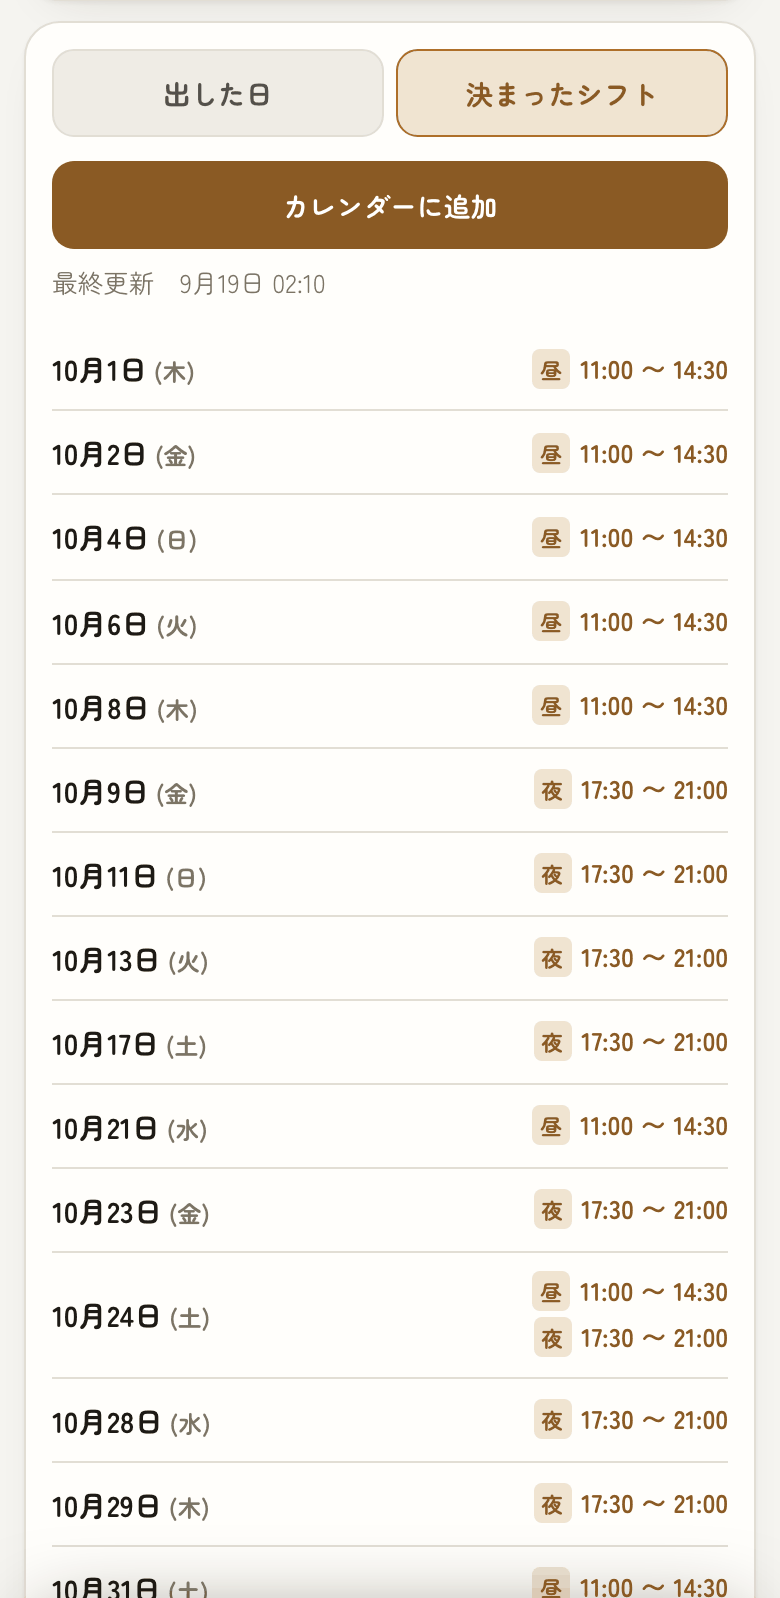
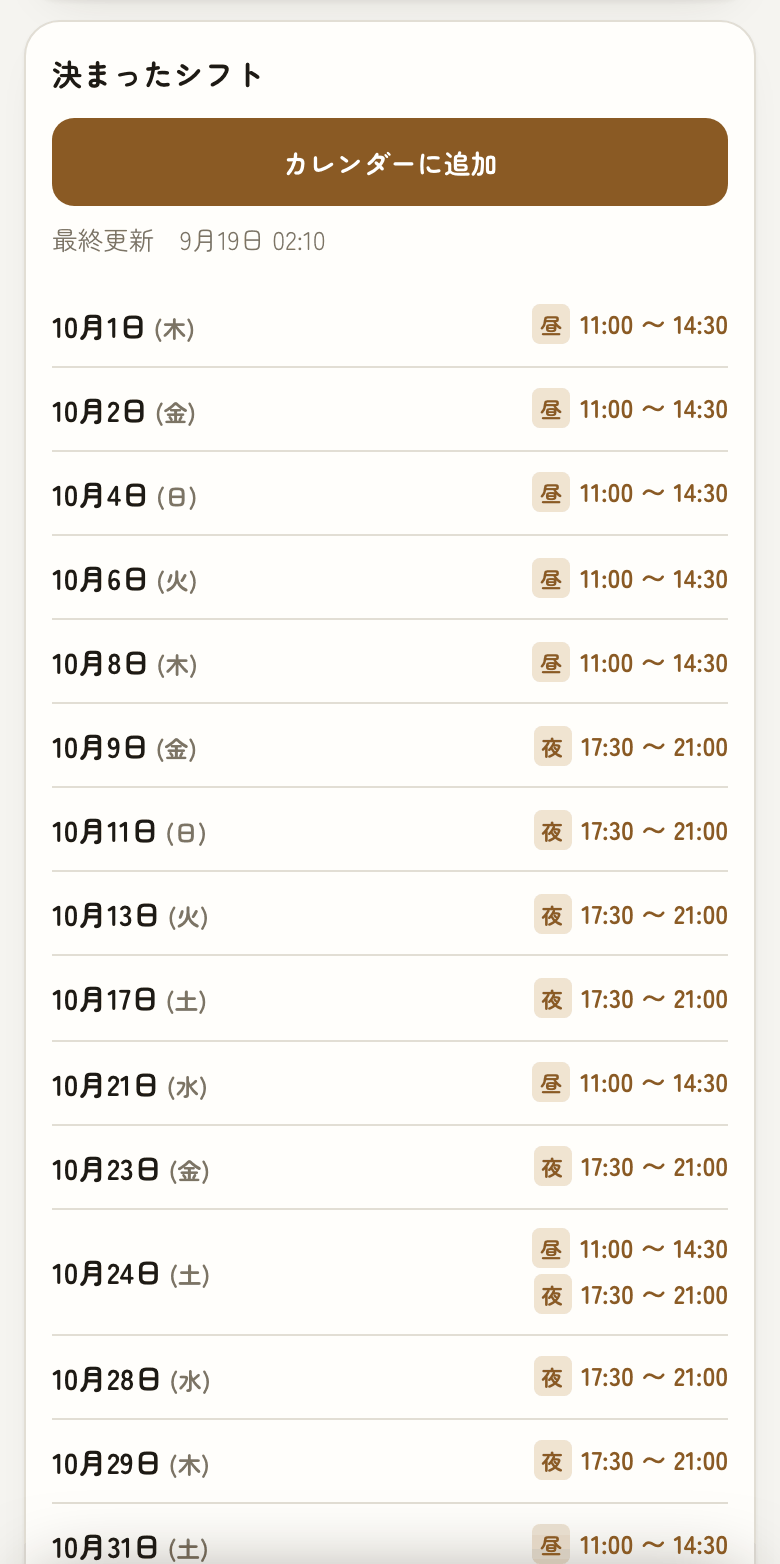
せんや：決まったシフトをカレンダーで見やすく。タブをカレンダーのすぐ上へ移し、マスに開始時刻の札を出す（2枠は縦に2段、3枠以上は「時刻＋残りの数」）。説明書の文と画像3枚も更新
Claude-Session: https://claude.ai/code/session_01YAqp5TCHuwZkG6s2foB56x

diff --git a/tsumiki-senya.html b/tsumiki-senya.html
@@ -130,6 +130,8 @@
      （初めて1日を出した瞬間に39px下がっていた）。2行ぶんの高さを先に取っておく。 */
   .state{margin-top:11px; display:flex; gap:8px; flex-wrap:wrap;
     align-content:flex-start; min-height:70px;}
+  /* タブが続く月は高さの確保をやめる（タブとの間が空くため） */
+  .state:has(+ .tabs:not([hidden])){min-height:0;}
   .pill{font-size:.76rem; font-weight:700; padding:5px 11px; border-radius:999px;
     background:var(--surface-2); color:var(--ink-mid); border:1px solid var(--line);}
   .pill.open{background:var(--good-wash); color:var(--good); border-color:transparent;}
@@ -303,6 +305,9 @@
   .cell .k.o{background:var(--accent-fill); color:var(--on-accent);}
   .cell .k.t{background:transparent; color:var(--accent-2); box-shadow:0 0 0 1px var(--accent) inset;}
   .cell .k.a{background:var(--good); color:var(--on-accent);}
+  /* 決まったシフトは開始時刻を出す。字が長いので縦に積む */
+  .cell .mk.col{flex-direction:column; align-items:center; gap:1px; margin-top:2px;}
+  .cell .mk.col .k{font-size:.6rem; padding:1px 3px; letter-spacing:0; font-variant-numeric:tabular-nums;}
   .cell.req{box-shadow:0 0 0 2px var(--warn) inset;}
   /* 足りない枠がある日（みんなの ○ がほしい人数に届いていない）。2026-09-28 */
   .cell.lack::after{content:""; position:absolute; top:4px; right:4px; width:6px; height:6px;
@@ -352,7 +357,7 @@
     font-size:.78rem; font-weight:700; cursor:pointer;}
 
   /* 一覧のタブ */
-  .tabs{display:flex; gap:6px; margin-bottom:12px;}
+  .tabs{display:flex; gap:6px; margin-top:12px;}
   .tabs button{flex:1 1 0; min-height:var(--tap); border:1px solid var(--line); background:var(--surface-2);
     color:var(--ink-mid); border-radius:11px; font-family:inherit; font-size:.86rem; font-weight:700; cursor:pointer;}
   .tabs button.on{background:var(--accent-wash); border-color:var(--accent); color:var(--accent-2);}
@@ -523,6 +528,10 @@
       <button class="navbtn" id="mNext" aria-label="次の月">›</button>
     </div>
     <div class="state" id="stateRow"></div>
+    <div class="tabs" id="tabs" hidden>
+      <button data-t="kibo" class="on">出した日</button>
+      <button data-t="kakutei">決まったシフト</button>
+    </div>
 
     <div class="wd">
       <div class="s0">日</div><div>月</div><div>火</div><div>水</div><div>木</div><div>金</div><div class="s6">土</div>
@@ -534,10 +543,6 @@
   </section>
 
   <section class="card" id="listCard">
-    <div class="tabs" id="tabs" hidden>
-      <button data-t="kibo" class="on">出した日</button>
-      <button data-t="kakutei">決まったシフト</button>
-    </div>
     <div style="font-weight:700; font-size:.95rem; margin-bottom:10px" id="listTitle">出した日</div>
     <div id="outRow"></div>
     <div id="listBox"></div>
@@ -976,12 +981,15 @@ function render(){
     if(has){
       const on=(me.slots||[]).filter(s=>got[s.k]);
       const MK_MAX=2;   /* マスの高さは決まっている。3つ出すと3行になって下が切れる（320pxで実測） */
-      let mk=on.slice(0,MK_MAX).map(s=>{
-        const cls=showAssign?'a':(got[s.k].mark==='t'?'t':'o');
+      /* 決まったシフトは縦に積むので2段まで。3つ以上の日は「時刻＋残りの数」にする */
+      const shown=showAssign&&on.length>MK_MAX?1:MK_MAX;
+      let mk=on.slice(0,shown).map(s=>{
+        if(showAssign) return '<span class="k a">'+(got[s.k].from==null?esc(String(s.label).slice(0,3)):m2hm(got[s.k].from))+'</span>';
+        const cls=got[s.k].mark==='t'?'t':'o';
         return '<span class="k '+cls+'">'+esc(String(s.label).slice(0,3))+'</span>';
       }).join('');
-      if(on.length>MK_MAX) mk+='<span class="k more">+'+(on.length-MK_MAX)+'</span>';
-      inner+='<div class="mk">'+mk+'</div>';
+      if(on.length>shown) mk+='<span class="k more">+'+(on.length-shown)+'</span>';
+      inner+='<div class="mk'+(showAssign?' col':'')+'">'+mk+'</div>';
     }else if(closed.has(w)){ inner+='<div class="restmark">休</div>'; }
     e.innerHTML=inner;
     e.addEventListener('click',()=>openSheet(key));
@@ -1025,7 +1033,8 @@ function renderList(){
   tabs.hidden=!cur.published;
   [...tabs.children].forEach(b=>b.classList.toggle('on', b.dataset.t===tab));
   const showAssign=cur.published && tab==='kakutei';
-  document.getElementById('listTitle').hidden=!tabs.hidden;
+  // タブはカレンダーの上にある。こちらの一覧は、いま何の一覧かを見出しで言う
+  document.getElementById('listTitle').textContent=showAssign?'決まったシフト':'出した日';
 
   // 決まったシフトは「持ち出せて」はじめて役に立つ（手でカレンダーに写させない）
   const or2=document.getElementById('outRow'); or2.innerHTML='';

diff --git a/tsumiki-senya-tsukaikata.html b/tsumiki-senya-tsukaikata.html
@@ -542,12 +542,12 @@
     <article class="item" id="i18">
       <div class="figs"><figure class="shot"><img src="senya-shots/s-kakutei.png" alt="決まったシフトのタブ" loading="lazy" decoding="async" width="780" height="1800"><figcaption>「決まったシフト」に切り替えたところ</figcaption></figure></div>
       <div class="txt"><h3><span class="n">18</span>決まったシフトを見る<span class="who-tag w">スタッフ</span></h3>
-      <p>店長がシフトを組んで知らせると、<kbd>決まったシフト</kbd> のタブが出ます。<strong>そこがあなたの確定した出勤日</strong>です。カレンダーの札も緑に変わります。</p>
+      <p>店長がシフトを組んで知らせると、<kbd>決まったシフト</kbd> のタブが出ます。<strong>そこがあなたの確定した出勤日</strong>です。タブはカレンダーのすぐ上にあり、切り替えると、カレンダーの緑の札に始まる時刻が出ます。</p>
       <details class="more"><summary>くわしく</summary><div class="mb"><p class="fine">出す前の「希望」と、決まったあとの「シフト」は別ものです。タブで切り替えて見比べられます。知らせが出るまではタブ自体が出ません。<br>知らせたあとは、その下に<strong>「みんなのシフト」</strong>も出ます。日ごとに誰が何時から入るかの表と、ひとりずつの合計（出る日と時間）です。自分のぶんは色が付きます。</p></div></details></div>
     </article>
 
     <article class="item" id="i19">
-      <div class="figs"><figure class="shot"><img src="senya-shots/s-ics.png" alt="カレンダーに追加ボタン" loading="lazy" decoding="async" width="780" height="1598"><figcaption>押すと1か月ぶんがまとめて入る</figcaption></figure></div>
+      <div class="figs"><figure class="shot"><img src="senya-shots/s-ics.png" alt="カレンダーに追加ボタン" loading="lazy" decoding="async" width="780" height="1564"><figcaption>押すと1か月ぶんがまとめて入る</figcaption></figure></div>
       <div class="txt"><h3><span class="n">19</span>決まったシフトを、自分のカレンダーに入れる<span class="who-tag w">スタッフ</span></h3>
       <p><kbd>カレンダーに追加</kbd> を押すと、<strong>1か月ぶんの出勤がまとめてカレンダーに入ります</strong>。ひとつずつ手で書き写す必要はありません。</p>
       <details class="more"><summary>くわしく</summary><div class="mb"><p class="fine">押すとカレンダーのアプリが開き、「追加しますか」と聞かれます。<b>予定の名前は「お店の名前　昼／夜」</b>、時間はシフトのとおりです。<br>あとでシフトが変わったときは、<b>もう一度押してください</b>。同じ日・同じ時間帯の予定は<b>上書きされる作り</b>にしてあります。<br>ボタンの下に <b>「最終更新　◯月◯日 ◯時◯分」</b> が出ます。お店がシフトを直すとここが新しくなるので、<b>入れ直すかどうかの目印</b>にしてください。</p></div></details></div>
